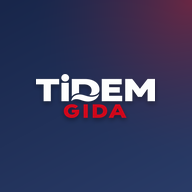
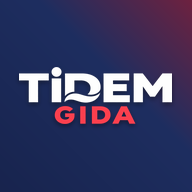
Add files via upload

Changed region(s): [[0.0938, 0.3438, 0.9062, 0.6562]]

diff --git a/index.html b/index.html
@@ -3,9 +3,9 @@
 <head>
 <meta charset="UTF-8">
 <meta name="viewport" content="width=device-width, initial-scale=1.0">
-<title>Tidem Gıda</title>
-<meta name="application-name" content="Tidem Gıda">
-<meta name="apple-mobile-web-app-title" content="Tidem">
+<title>TİDEM GIDA</title>
+<meta name="application-name" content="TİDEM GIDA">
+<meta name="apple-mobile-web-app-title" content="TİDEM GIDA">
 <link rel="manifest" href="manifest.webmanifest">
 <link rel="apple-touch-icon" href="apple-touch-icon.png">
 <meta name="mobile-web-app-capable" content="yes">
@@ -713,7 +713,7 @@
       <button type="button" class="lock-key" data-k="7">7</button><button type="button" class="lock-key" data-k="8">8</button><button type="button" class="lock-key" data-k="9">9</button>
       <button type="button" class="lock-key fn" data-k="clear" aria-label="Temizle">C</button><button type="button" class="lock-key" data-k="0">0</button><button type="button" class="lock-key fn" data-k="back" aria-label="Sil">⌫</button>
     </div>
-    <div class="app-ver" id="appVer">Sürüm 20 · 11.11.2026</div>
+    <div class="app-ver" id="appVer">Sürüm 21 · 11.11.2026</div>
   </div>
 </div>
 <script>
@@ -1324,7 +1324,7 @@
   </div>
   <div class="backup-status" id="backupStatus"></div>
 </section>
-    <section class="definition-card ver-card"><h3>Uygulama sürümü</h3><p><b class="ver-badge">Sürüm 20 · 11.11.2026</b> Güncelleme yükledikten sonra bu numara değişmezse eski dosya yüklenmiştir.</p></section>
+    <section class="definition-card ver-card"><h3>Uygulama sürümü</h3><p><b class="ver-badge">Sürüm 21 · 11.11.2026</b> Güncelleme yükledikten sonra bu numara değişmezse eski dosya yüklenmiştir.</p></section>
   </div>
 
 
@@ -2235,6 +2235,54 @@
   html[data-theme="dark"] .tr-step.done .tr-val{color:#86EFAC} html[data-theme="dark"] .tr-step.acc .tr-val{color:#FCD34D}
   html[data-theme="dark"] .tr-cap{color:#8A99BA}
   html[data-theme="dark"] .tr-step + .tr-step::before{background:repeating-linear-gradient(90deg,#4A5E92 0 6px,transparent 6px 10px)}
+
+  /* ===================== Sipariş satırı (ürün kartı) yeni tasarım ===================== */
+  #rows{counter-reset:satir}
+  #rows .row-card{counter-increment:satir;position:relative;padding:12px 12px 12px 14px !important;border:0 !important;border-radius:18px !important;background:#fff !important;box-shadow:0 1px 2px rgba(20,33,63,.05),0 8px 22px rgba(20,33,63,.08) !important;overflow:hidden}
+  #rows .row-card::after{content:"";position:absolute;left:0;top:0;bottom:0;width:5px;background:linear-gradient(#14213F,#2F4475)}
+  #rows .row-card:has(.row-name:placeholder-shown){background:repeating-linear-gradient(135deg,#FAFBFD 0 10px,#F4F6FA 10px 20px) !important;box-shadow:inset 0 0 0 1.5px #D5DCE6 !important}
+  #rows .row-card:has(.row-name:placeholder-shown)::after{background:#CBD5E1}
+  #rows .row-top{display:flex;align-items:center;gap:10px;margin:0 0 12px !important}
+  #rows .row-top::before{content:counter(satir);flex:none;display:flex;align-items:center;justify-content:center;width:30px;height:30px;border-radius:10px;background:#14213F;color:#fff;font-family:var(--font-display);font-weight:800;font-size:.85rem}
+  #rows .row-card:has(.row-name:placeholder-shown) .row-top::before{background:#CBD5E1}
+  #rows .row-name{flex:1;min-width:0;padding:6px 2px !important;border:0 !important;border-bottom:2px solid #E2E8F0 !important;border-radius:0 !important;background:transparent !important;font-family:var(--font-display) !important;font-weight:800 !important;font-size:1rem !important;letter-spacing:.02em;text-transform:uppercase;color:#14213F !important}
+  #rows .row-name::placeholder{color:#94A3B8;font-weight:700;text-transform:none;letter-spacing:0}
+  #rows .row-name:focus{outline:none;border-bottom-color:#C8202F !important}
+  #rows .row-del{flex:none;width:32px !important;height:32px !important;border-radius:10px !important;background:#FDECEE !important;color:#C8202F !important;font-size:.9rem !important;font-weight:900}
+  #rows .row-grid{display:grid !important;grid-template-columns:1.35fr 1fr 1.05fr !important;gap:0 20px !important;align-items:end}
+  #rows .row-grid .sub{position:relative;gap:5px !important}
+  #rows .row-grid .sub label{font-size:.6rem !important;font-weight:800 !important;letter-spacing:.12em;text-transform:uppercase;color:#94A3B8 !important}
+  #rows .row-grid .sub:nth-child(1)::after,#rows .row-grid .sub:nth-child(2)::after{position:absolute;right:-15px;bottom:11px;width:10px;text-align:center;font-weight:900;font-size:1rem;color:#94A3B8}
+  #rows .row-grid .sub:nth-child(1)::after{content:"×"}
+  #rows .row-grid .sub:nth-child(2)::after{content:"="}
+  #rows .row-grid input{height:44px;padding:0 10px !important;border:1.5px solid #E2E8F0 !important;border-radius:12px !important;background:#F8FAFC !important;font-size:1rem !important;font-weight:800 !important;color:#14213F !important;text-align:center !important}
+  #rows .row-grid input:focus{border-color:#C8202F !important;background:#fff !important;box-shadow:0 0 0 3px rgba(200,32,47,.1) !important}
+  #rows .row-grid .tutar-box{display:flex;align-items:center;justify-content:center;gap:3px;height:44px;padding:0 8px !important;border:0 !important;border-radius:12px !important;background:linear-gradient(135deg,#1B2B57,#14213F) !important;color:#fff !important;font-family:var(--font-display);font-size:1.05rem !important;font-weight:800 !important;box-shadow:0 4px 10px rgba(20,33,63,.2)}
+  #rows .row-grid .tutar-box::after{content:"₺";font-size:.72em;opacity:.7}
+  #rows .row-card:has(.row-name:placeholder-shown) .tutar-box{background:#E2E8F0 !important;color:#94A3B8 !important;box-shadow:none}
+  /* koli artı/eksi */
+  #rows .koli-step{display:flex;align-items:stretch;height:44px;border:1.5px solid #E2E8F0;border-radius:12px;background:#F8FAFC;overflow:hidden}
+  #rows .koli-step:focus-within{border-color:#C8202F;box-shadow:0 0 0 3px rgba(200,32,47,.1)}
+  #rows .koli-step input{flex:1;min-width:0;height:auto !important;border:0 !important;border-radius:0 !important;background:transparent !important;box-shadow:none !important;padding:0 2px !important;-moz-appearance:textfield}
+  #rows .koli-step input::-webkit-outer-spin-button,#rows .koli-step input::-webkit-inner-spin-button{-webkit-appearance:none;margin:0}
+  #rows .koli-step button{flex:none;width:32px;border:0;background:#EEF2F8;color:#14213F;font-size:1.15rem;font-weight:900;cursor:pointer;padding:0}
+  #rows .koli-step button.plus{background:#14213F;color:#fff}
+  html:not(.no-anim) #rows .koli-step button:active{filter:brightness(.85)}
+  html:not(.no-anim) #rows .row-card{animation:tdUp .3s cubic-bezier(.2,.8,.2,1) both}
+  html:not(.no-anim) #rows .tutar-box.td-bump{display:flex}
+  /* koyu mod */
+  html[data-theme="dark"] #rows .row-card{background:#24345E !important;box-shadow:0 8px 22px rgba(0,0,0,.25) !important}
+  html[data-theme="dark"] #rows .row-card:has(.row-name:placeholder-shown){background:repeating-linear-gradient(135deg,#22315A 0 10px,#1F2D54 10px 20px) !important;box-shadow:inset 0 0 0 1.5px #3A4C7E !important}
+  html[data-theme="dark"] #rows .row-card::after{background:linear-gradient(#C8202F,#8E1520)}
+  html[data-theme="dark"] #rows .row-top::before{background:#0E1A3A}
+  html[data-theme="dark"] #rows .row-name{color:#F1F5F9 !important;border-bottom-color:#3A4C7E !important}
+  html[data-theme="dark"] #rows .row-grid input, html[data-theme="dark"] #rows .koli-step{background:#1C2A4F !important;border-color:#3A4C7E !important;color:#F1F5F9 !important}
+  html[data-theme="dark"] #rows .koli-step input{color:#F1F5F9 !important}
+  html[data-theme="dark"] #rows .koli-step button{background:#33467A;color:#E2E8F0}
+  html[data-theme="dark"] #rows .koli-step button.plus{background:#C8202F;color:#fff}
+  html[data-theme="dark"] #rows .row-grid .tutar-box{background:linear-gradient(135deg,#3A5294,#2A3E73) !important}
+  html[data-theme="dark"] #rows .row-card:has(.row-name:placeholder-shown) .tutar-box{background:#2A3B66 !important;color:#7F8DB0 !important}
+  html[data-theme="dark"] #rows .row-del{background:rgba(239,68,68,.18) !important;color:#FCA5A5 !important}
 </style>
 <script>
 (function(){
@@ -6572,6 +6620,26 @@ ${dokum ? `<section class="section"><h2>Günlük döküm</h2><table class="detai
   // gönderme kuyruğu WhatsApp logoları sırayla belirsin
   const qc = document.getElementById('queueChunks');
   if (qc) new MutationObserver(() => [...qc.children].forEach((b, i) => b.style.setProperty('--i', i))).observe(qc, { childList:true });
+})();
+</script>
+<script>
+/* Sipariş satırı: koli için − / + düğmeleri, tutar değişince zıplama */
+(function(){
+  const rows = document.getElementById('rows'); if (!rows) return;
+  function enhance(card){
+    if (card.__step) return; card.__step = true;
+    const inp = card.querySelector('.row-adet'); if (!inp) return;
+    const wrap = document.createElement('div'); wrap.className = 'koli-step';
+    const minus = document.createElement('button'); minus.type = 'button'; minus.className = 'minus'; minus.textContent = '−'; minus.setAttribute('aria-label', 'Koli azalt');
+    const plus = document.createElement('button'); plus.type = 'button'; plus.className = 'plus'; plus.textContent = '+'; plus.setAttribute('aria-label', 'Koli artır');
+    inp.parentNode.insertBefore(wrap, inp); wrap.append(minus, inp, plus);
+    const bump = d => { const v = Math.max(0, (parseFloat(inp.value) || 0) + d); inp.value = v ? String(v) : ''; inp.dispatchEvent(new Event('input', { bubbles:true })); inp.dispatchEvent(new Event('change', { bubbles:true })); try{ saveDraft(); }catch(e){} };
+    minus.addEventListener('click', () => bump(-1)); plus.addEventListener('click', () => bump(1));
+    const tb = card.querySelector('.tutar-box');
+    if (tb) new MutationObserver(() => { tb.classList.remove('td-bump'); void tb.offsetWidth; tb.classList.add('td-bump'); }).observe(tb, { childList:true, characterData:true, subtree:true });
+  }
+  rows.querySelectorAll('.row-card').forEach(enhance);
+  new MutationObserver(ms => ms.forEach(m => m.addedNodes.forEach(n => { if (n.nodeType === 1 && n.classList.contains('row-card')) enhance(n); }))).observe(rows, { childList:true });
 })();
 </script>
 </body>

diff --git a/sw.js b/sw.js
@@ -1,7 +1,7 @@
 /* Tidem Gıda · çevrimdışı çalışma
    Uygulama dosyası internet varken her açılışta güncellenir, internet yokken kayıtlı kopyadan açılır.
    Verileriniz bu dosyada değil, telefonun kendi hafızasında (localStorage) durur. */
-const CACHE = 'tidem-v1';
+const CACHE = 'tidem-v2';
 const CORE = ['./', './index.html', './manifest.webmanifest', './icon-192.png', './icon-512.png', './icon-maskable-192.png', './icon-maskable-512.png', './apple-touch-icon.png'];
 self.addEventListener('install', e => { e.waitUntil(caches.open(CACHE).then(c => c.addAll(CORE)).then(() => self.skipWaiting())); });
 self.addEventListener('activate', e => {
